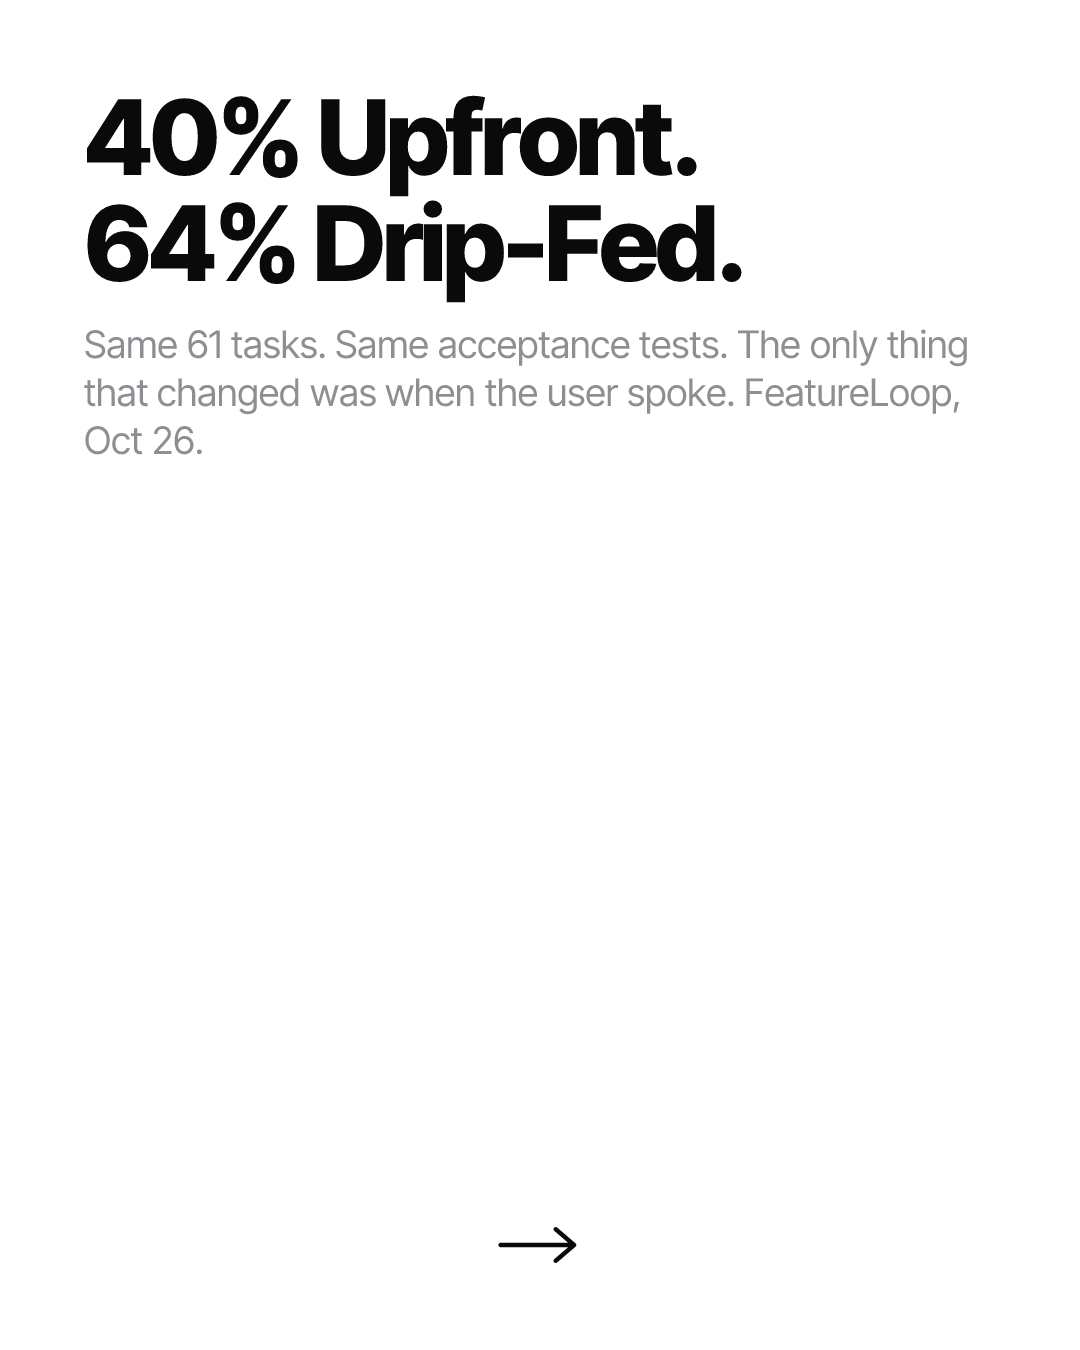
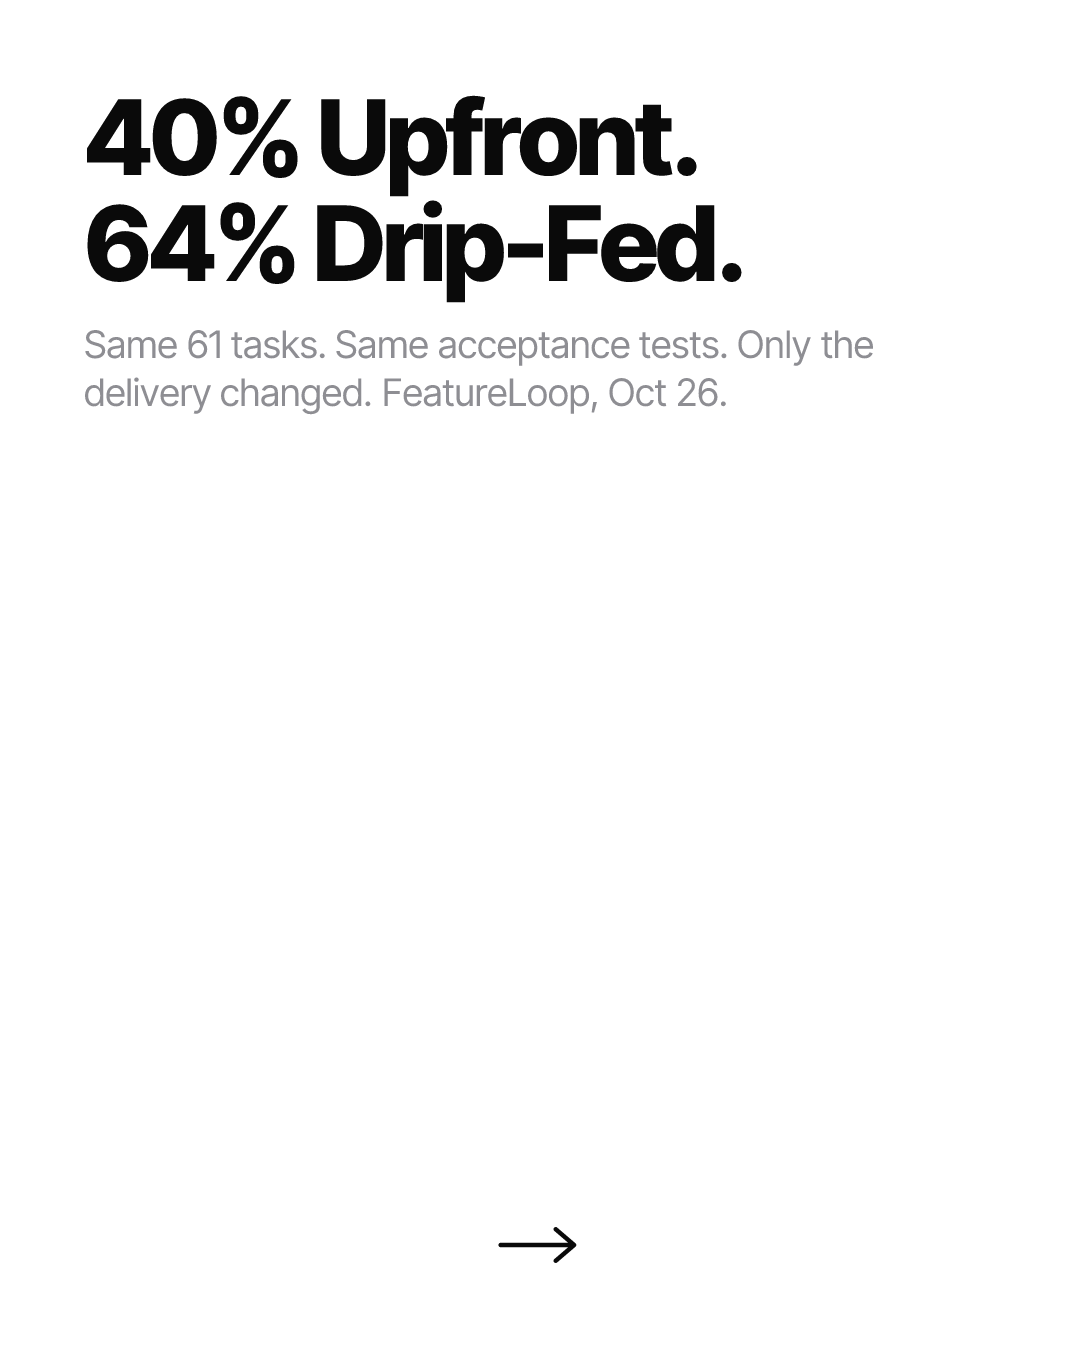
chore: pending Notion row for 40-percent-upfront-64-in-stages
Claude-Session: https://claude.ai/code/session_01L6fcTE7qGciryMUjZxEyPC

Changed region(s): [[0.0611, 0.2489, 0.9167, 0.3422]]

diff --git a/NOTION-ROW-2026-10-31.md b/NOTION-ROW-2026-10-31.md
@@ -1,0 +1,219 @@
+# Pending Notion row — "Instagram Carousel & Post Pipeline"
+
+Could not be filed automatically. The Notion connector is unauthenticated in this session:
+`ListConnectors` reports Notion with installState "disconnected", and a tool search for Notion
+returns no tools at all, so there is no API path to the database. No NOTION_TOKEN is configured
+either, so the scripted path (src/notion.ts, reached via src/publish.ts) is also unavailable.
+
+This is the NINTH consecutive day it has failed. Reconnect at
+claude.ai -> Settings -> Connectors -> Notion. Backlog to paste, oldest first:
+  NOTION-ROW-2026-10-23.md
+  NOTION-ROW-2026-10-24.md
+  NOTION-ROW-2026-10-25.md
+  NOTION-ROW-2026-10-26.md
+  NOTION-ROW-2026-10-27.md
+  NOTION-ROW-2026-10-28.md
+  NOTION-ROW-2026-10-29.md
+  NOTION-ROW-2026-10-30.md
+  NOTION-ROW-2026-10-31.md  (this file)
+
+Because the database could not be read, dedupe was done against the 100 post slugs already in
+posts/ig/ plus the eight pending row files above, not against the live Topic column.
+
+Everything below is final, rendered, pushed, and every slide URL verified HTTP 200 (real status
+checked with curl -w '%{http_code}', not the proxy's CONNECT line; all six return image/png).
+Paste as one new row.
+
+---
+
+## Topic
+40% Upfront. 64% Drip-Fed.
+
+## Ready to Post
+unchecked
+
+## Image URL (slide 1)
+https://raw.githubusercontent.com/SouSingh/ig-content-engine/main/posts/ig/2026-10-31/40-percent-upfront-64-in-stages/01.png
+
+## Bio
+
+Writing a longer spec made the agent worse, not better.
+
+Tencent and CUHK ran 61 tasks from 34 repos through 12 frontier models, every one of them on Claude Code. Whole spec upfront: 40.3% finished. Same requirements fed in stages, with the user reporting bugs: 64.1%. Identical tasks, identical acceptance tests.
+
+My admission: I've been writing three-page PRDs before letting Claude Code touch anything, convinced I was saving myself turns. The turns were the point.
+
+Spec first or stages?
+
+#buildinpublic #indiehackers #solofounder #devtools #aicoding #codingagents #claudecode #promptengineering #contextengineering #softwareengineering #llm #agents
+
+---
+
+## Page body
+
+### 1. Carousel preview (embed each as an image block, in order)
+
+https://raw.githubusercontent.com/SouSingh/ig-content-engine/main/posts/ig/2026-10-31/40-percent-upfront-64-in-stages/01.png
+https://raw.githubusercontent.com/SouSingh/ig-content-engine/main/posts/ig/2026-10-31/40-percent-upfront-64-in-stages/02.png
+https://raw.githubusercontent.com/SouSingh/ig-content-engine/main/posts/ig/2026-10-31/40-percent-upfront-64-in-stages/03.png
+https://raw.githubusercontent.com/SouSingh/ig-content-engine/main/posts/ig/2026-10-31/40-percent-upfront-64-in-stages/04.png
+https://raw.githubusercontent.com/SouSingh/ig-content-engine/main/posts/ig/2026-10-31/40-percent-upfront-64-in-stages/05.png
+https://raw.githubusercontent.com/SouSingh/ig-content-engine/main/posts/ig/2026-10-31/40-percent-upfront-64-in-stages/06.png
+
+### 2. Raw URLs for downloading (plain list)
+
+https://raw.githubusercontent.com/SouSingh/ig-content-engine/main/posts/ig/2026-10-31/40-percent-upfront-64-in-stages/01.png
+https://raw.githubusercontent.com/SouSingh/ig-content-engine/main/posts/ig/2026-10-31/40-percent-upfront-64-in-stages/02.png
+https://raw.githubusercontent.com/SouSingh/ig-content-engine/main/posts/ig/2026-10-31/40-percent-upfront-64-in-stages/03.png
+https://raw.githubusercontent.com/SouSingh/ig-content-engine/main/posts/ig/2026-10-31/40-percent-upfront-64-in-stages/04.png
+https://raw.githubusercontent.com/SouSingh/ig-content-engine/main/posts/ig/2026-10-31/40-percent-upfront-64-in-stages/05.png
+https://raw.githubusercontent.com/SouSingh/ig-content-engine/main/posts/ig/2026-10-31/40-percent-upfront-64-in-stages/06.png
+
+### 3. Sources
+
+Every factual claim on every slide traces to a single primary source, opened and read in full
+(abstract plus body through section 4.4) — not from search snippets:
+
+- Jia Feng, Alyssa Wu, Cuiyun Gao, Yunlong Wang, Songyuanyi Lu, Zhichao Hu,
+  "FeatureLoop: Benchmarking Coding Agents under Evolving Requirements",
+  arXiv 2610.35488 (Oct 26, 2026). Hunyuan Team, Tencent + The Chinese University of Hong Kong.
+  PRIMARY AND ONLY SOURCE for all six slides.
+  https://arxiv.org/abs/2610.35488  /  https://arxiv.org/pdf/2610.35488
+    - Slide 1 + 3: "Across models, final success rises from 40.3% with an upfront specification
+      (Full), to 51.6% with progressive requests (Evo), and to 64.1% with progressive requests
+      and correction (Evo+Comp). The target and final checks are the same" (section 4.1, and
+      the Pooled row of Table 1). Section heading: "Providing the entire specification at the
+      outset does not produce the highest completion rate."
+    - Slide 2: "We evaluate 12 frontier models on all 61 tasks under the three development
+      scenarios, yielding 2,196 runs. All models use Claude Code as the shared coding harness."
+      (section 3). "FeatureLoop contains 61 tasks from 34 repositories" (section 1).
+    - Slide 3 row wording, from section 2.2: Full = "The user specifies the entire target at the
+      outset and asks the agent to deliver it in one coding session." Evo = "introduces further
+      requirements as development proceeds... leaves debugging to the agent." Evo+Comp = "The
+      user also reports problems encountered in the current implementation."
+    - Slide 4: "Only 15.4% become fully correct within the two permitted revisions. Moreover,
+      fixing an individual requirement is not always enough: 20.9% of successful individual
+      repairs still leave another stated requirement unmet." (section 4.2)
+    - Slide 5: "In 75.3% of these failures, the agent either omits a relevant user-path check or
+      validates a helper, stub, or proxy instead." (section 4.4; "these failures" = every run
+      that ends unsuccessfully)
+
+Caveats recorded but deliberately NOT put on a slide:
+- This is a preprint with 0 citations, not peer-reviewed. The slides do not call it peer-reviewed.
+- Conflict of interest worth knowing: the benchmark's authors include Tencent's Hunyuan team, and
+  two Hunyuan models are in the evaluation. Against cherry-picking: their own Hy3 places last of
+  12 (21.3 / 32.8 / 36.1) and needs the most correction (4.03 messages per task). The headline
+  finding is pooled across all 12 models, so it does not rest on either Hunyuan entry.
+- The 64.1% is NOT free. It costs the user about 2.27 new-requirement messages and 2.35 corrective
+  messages per task (Table 1, Pooled). Slide 3 says "plus reported failures" so the reader can see
+  the trade; the post never claims staged delivery is cheaper in user effort, only that it finishes
+  more tasks.
+- Also true but left off: 11.4% of previously-passing requirements fail at a later check, and
+  agents implement newly requested behavior on the first response in 77.3% of cases. Both are real
+  and were cut to keep the post to one argument rather than padding it into a stat stack.
+
+### 4. Candidates considered and dropped
+
+Ten candidates collected across the three beats, Oct 24-31.
+
+- Snowflake SnowPR, benchmarking coding agents on a 43M-line monorepo (Oct 27). All four harnesses
+  within 84.1-85.1%, differing mainly on cost (REM $6.34, Claude Code $6.51, Cursor $6.93, code
+  mode $8.19); cross-language Java+C++ tasks pass 55% vs 80% Java alone.
+  DROPPED — the cost angle duplicates 10-08 ("same-score-3x-the-bill") almost exactly. Also
+  www.snowflake.com does not resolve under this session's network policy, so the post could only
+  have rested on an extracted copy, not a page I opened.
+  https://www.snowflake.com/en/blog/engineering/Benchmarking-coding-agents/
+- Agents followed existing repository code over new instructions in 359 of 360 conflicting trials
+  (arXiv 2610.38244), and a companion finding that Claude Code flagged a stale CLAUDE.md then
+  followed it anyway in 79 of 80 runs (arXiv 2610.30571).
+  DROPPED — genuinely novel and a strong future post, but the two findings point in opposite
+  directions (code beats instructions / instructions beat code) under setups I could not reconcile
+  without opening both papers. Surfaced only via an aggregator. Worth doing properly another day.
+  https://mindpattern.ai/s/2026-10-30-coding-agents-followed-existing-repository-code-over-new-instructions-in-359-of-360-c
+- 147,002 coding-agent trajectories: at 20,000 tokens, predicting failure is a coin flip
+  (AUC 0.50), and 216 of 224 configurations solved more with fewer tokens by running to the end
+  (arXiv 2610.35971). DROPPED — strong contrarian candidate and the closest runner-up, but
+  secondary coverage only; the abstract reportedly omits which models and problem sets were used.
+  https://secondsource.io/en/research/2026-10-29-3/
+- Microsoft Research / UC Berkeley TokenEconomizer: cost down 18.4-30.9% across 5 agent-model
+  settings on 277 SWE-Bench tasks (arXiv 2610.22732). DROPPED — cost-reduction posts ran 10-08,
+  09-26 and 09-24. https://www.marktechpost.com/2026/10/30/microsoft-tokeneconomizer-coding-agent-cost-control/
+- Replit ViBench 2.0 (Oct 28): GPT-6.1 Sol 65% of builds fully passing, GPT-6 Astra 60%,
+  Opus 5.5 49%. DROPPED — benchmark-leaderboard shape ran 10-27, 10-08 and 10-07. Four in a month
+  is too many. https://ainewsway.com/news/vibench-2-0-top-agent-finishes-65-of-apps
+- Claude Code changelog 2.1.311 / 2.1.312 / 2.1.314 / 2.1.316 (Oct 26-31), including Opus 4.8 fast
+  mode deprecated Oct 30 and removed Nov 30 (requests then error rather than falling back), and
+  2.1.314 shipping 81 bug fixes. DROPPED — the deadline shape ran on 10-10
+  ("rollbacks-expire-october-23") and the release-volume shape on 10-22. Kept on the shortlist:
+  the Nov 30 fast-mode removal is a real dated deadline and deserves its own post closer to the
+  date. https://code.claude.com/docs/en/changelog
+- Self-improving coding agents vs textbook baselines (Oct 28): a single textbook change recovers
+  ~90% of the best loop agent's gain at under half the cost. DROPPED — overlaps the "agents are
+  oversold" register of 10-19 and 10-29, and it is a single-author preprint on a non-arXiv host.
+  https://hexagonmath.org/2610.00598v1
+- SciPy Proceedings, "Vibes, meet rigor" (Oct 29): Opus 4.8 agentic with tools scored 98.7% on a
+  domain exam; agents invoked skills only 13.1% of the time unprompted, rising to 45.2% when
+  nudged. DROPPED — the skills-underuse number is interesting, but the paper's own six-month
+  staleness note ("our initial findings are no longer valid") makes it a weak hook.
+  https://proceedings.scipy.org/articles/wwjp7762
+- PricingSaaS week 44: 314 pricing changes, the busiest of the last eight weeks; Vercel cut
+  Enterprise firewall rules 1,000 -> 250; Baseten cut Reflection Beam tokens $1.30 -> $0.40.
+  DROPPED — platform-pricing posts ran 10-06, 09-20 and 09-19. https://pricingsaas.com/
+- MailCheap: Marc Lou's newsletter tool at $1,320/mo from 40 subscriptions 10 days after launch,
+  read from Stripe by TrustMRR on Oct 26 (up from $653 on Oct 21). DROPPED — Stripe-verified and
+  tempting, but solo-revenue posts ran 10-01 and 10-05, and the honest caveat (a 417k-follower
+  head start, nobody has renewed yet) is the real story, which makes it a weaker carousel than it
+  looks. https://proofofincome.beehiiv.com/p/a-2-week-old-newsletter-tool-at-1-320-a-month
+
+### 5. Shape rotation note
+
+Chosen shape: contrarian take, 6 slides.
+
+The last seven posts were 5, 7, 6, 5, 7, 4 and 7 slides, and every one of them was a stat stack or
+a vendor teardown built from a single report — a column of figures about something that broke.
+Today is the first post in that run that argues against a practice the audience already follows,
+rather than reporting an incident. The spine is a claim ("your spec is costing you 24 points"),
+not a list of findings, and the slides are ordered as an argument: claim, isolate the variable,
+show the ladder, then two slides on why the upfront route loses.
+
+Why not 1 slide: "40% upfront, 64% drip-fed" is a strong enough single stat to stand alone, but on
+its own it reads as a prompting trick. The reason it matters is the mechanism — reported bugs
+mostly do not get fixed (15.4%), and three quarters of failures never exercised the user's path.
+Without those two slides the reader has a number and no reason to change anything on Monday.
+
+Why not 9: there was no seventh fact worth a slide. The retention figure (11.4%) and the
+first-response figure (77.3%) are real, and including them would have turned an argument back into
+the stat stack this post exists to rotate away from.
+
+### 6. Rendering notes
+
+- simpleicons' CDN (cdn.simpleicons.org) is still unreachable under this session's network policy
+  (HTTP 000), so icons resolve from the bundled simple-icons 16.28.0 package, as on 10-30.
+- Only one logo is used: `claude` on slide 2, for the harness every one of the 2,196 runs went
+  through. Confirmed by opening the PNG that it renders as the real Claude starburst mark, not a
+  lettermark fallback box. Deliberately NOT logo-ed: the 12 evaluated models. `openai` is absent
+  from this simple-icons version, and `grok`, `zhipu`, `moonshot` and `tencent` have no slug at
+  all, so a model grid would have rendered mostly lettermark boxes, which the brief rules out.
+- The Claude logo sits on the methodology slide, not on a failure slide. Claude Code was only the
+  shared harness; the models under test were GPT-6, GPT-5.6, Kimi, DeepSeek, GLM, Qwen, Grok and
+  Hunyuan. Putting the mark next to a failure number would have implied a Claude defect the paper
+  does not report.
+- Brandfetch: brand_search confirmed Claude (claude.com, verified, quality 0.96), but
+  get_brand_data returned 403 — the plan behind the API key still has no API credits. No primary
+  hex was retrievable, so the icon "color" field was omitted per the brief, and the mark renders
+  in the default near-black, which matches the house palette.
+- Slide 3 was rendered three times. First pass: three short rows left a ~400px void under the
+  title. Second pass: longer rows wrapped and orphaned "40.3%" and "51.6%" onto lines of their own.
+  Third pass: rows trimmed to fit one line each, so the three percentages form a clean right edge.
+- Slide 1 was re-rendered once after review. The first sub read "the only thing that changed was
+  when the user spoke", which undersold the difference — the third scenario adds bug reports, not
+  just different timing. Changed to "Only the delivery changed."
+- All six PNGs opened and inspected at 1080x1350. No text overflow on any slide.
+- The CTA slide's straight quotes around "STAGES" come from the template itself
+  (src/templates.ts writes `comment "\${s.keyword}"`), not from post.json. Consistent with every
+  prior post; left alone.
+
+### 7. Push note
+
+Clean fast-forward this time. The session started on `main` in sync with origin (07e2498), so the
+detached-HEAD problem noted on 10-30 did not recur. Two commits: the post, then this row file.
